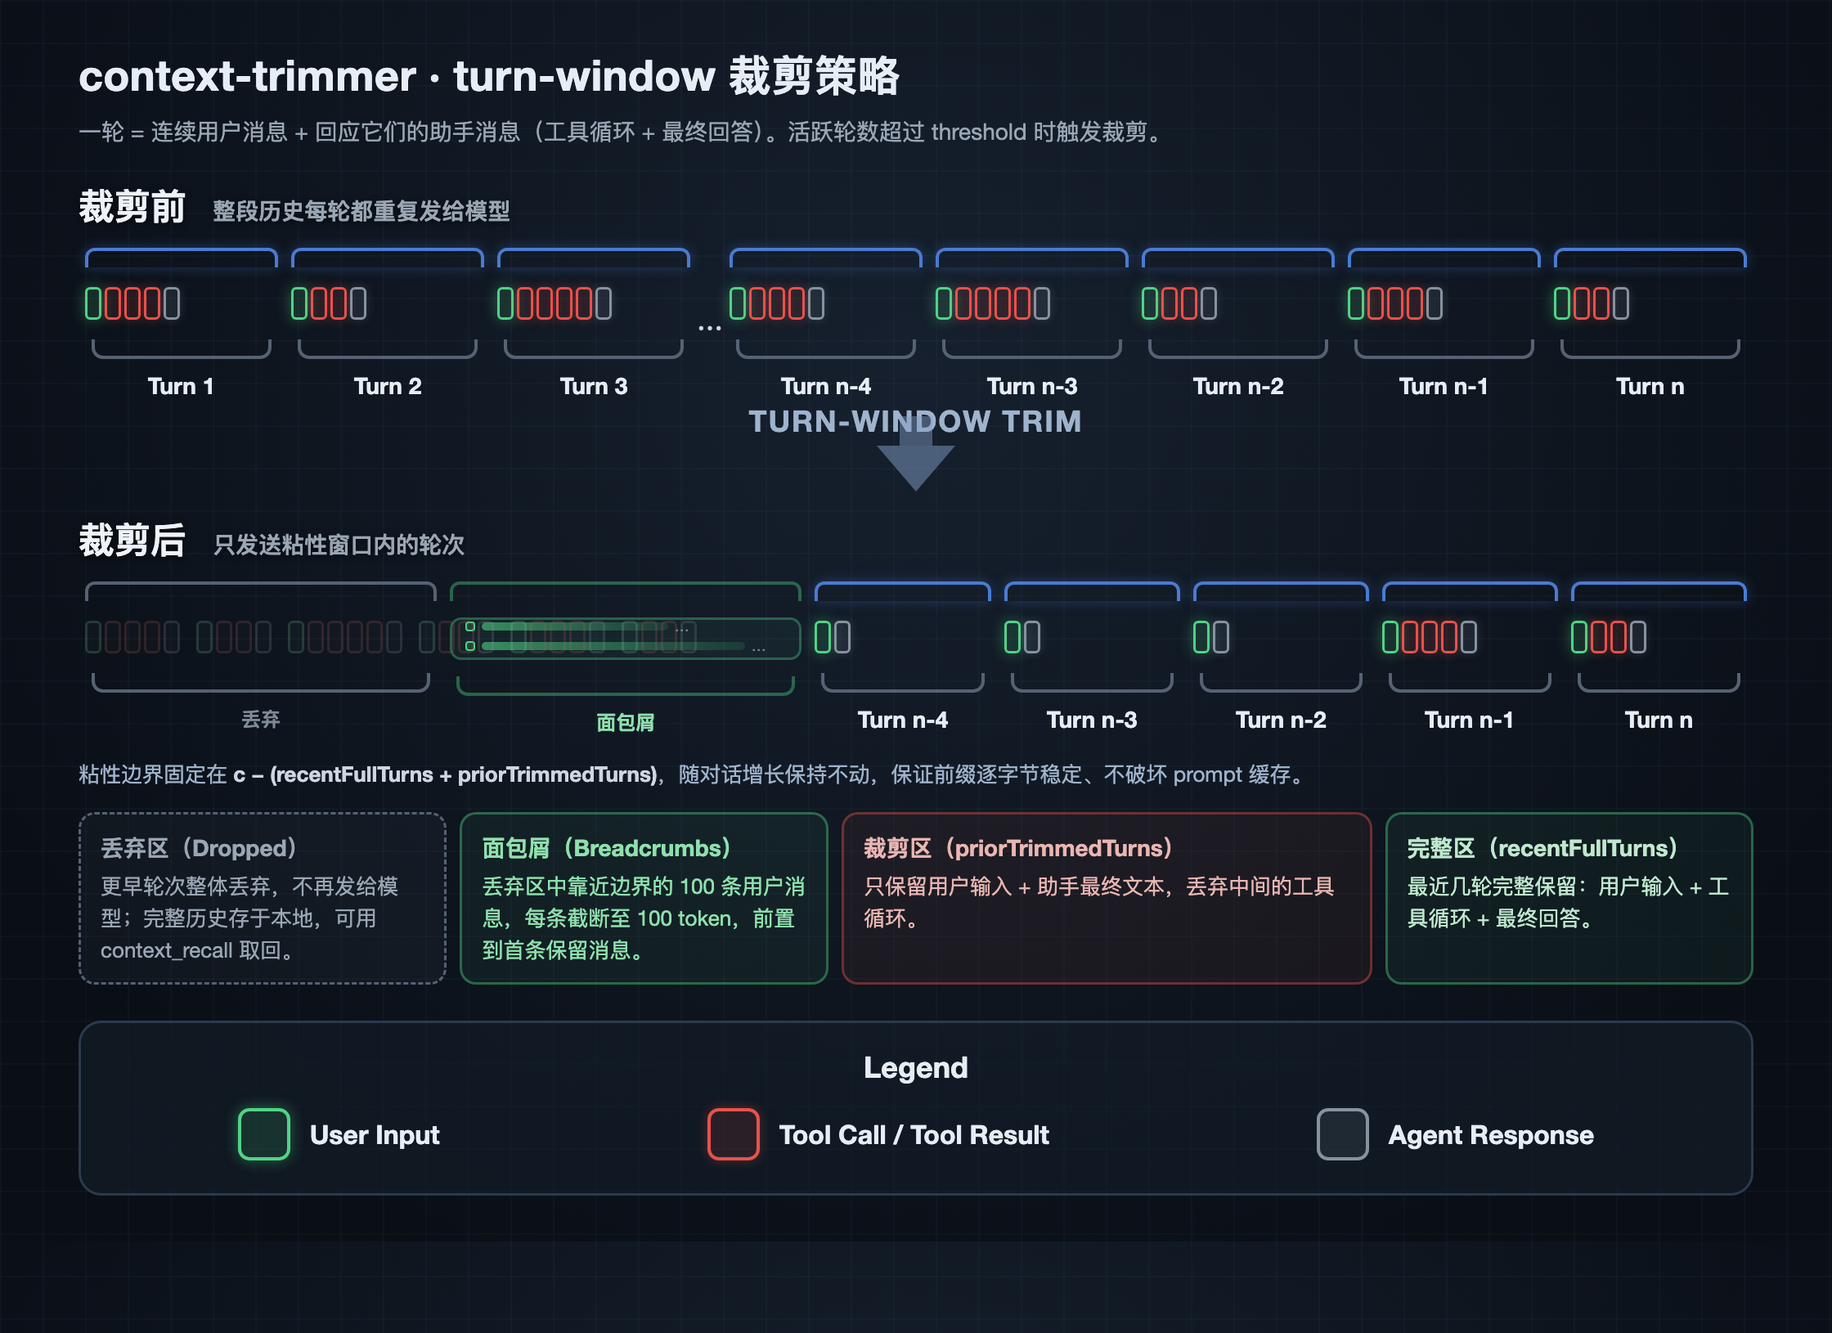
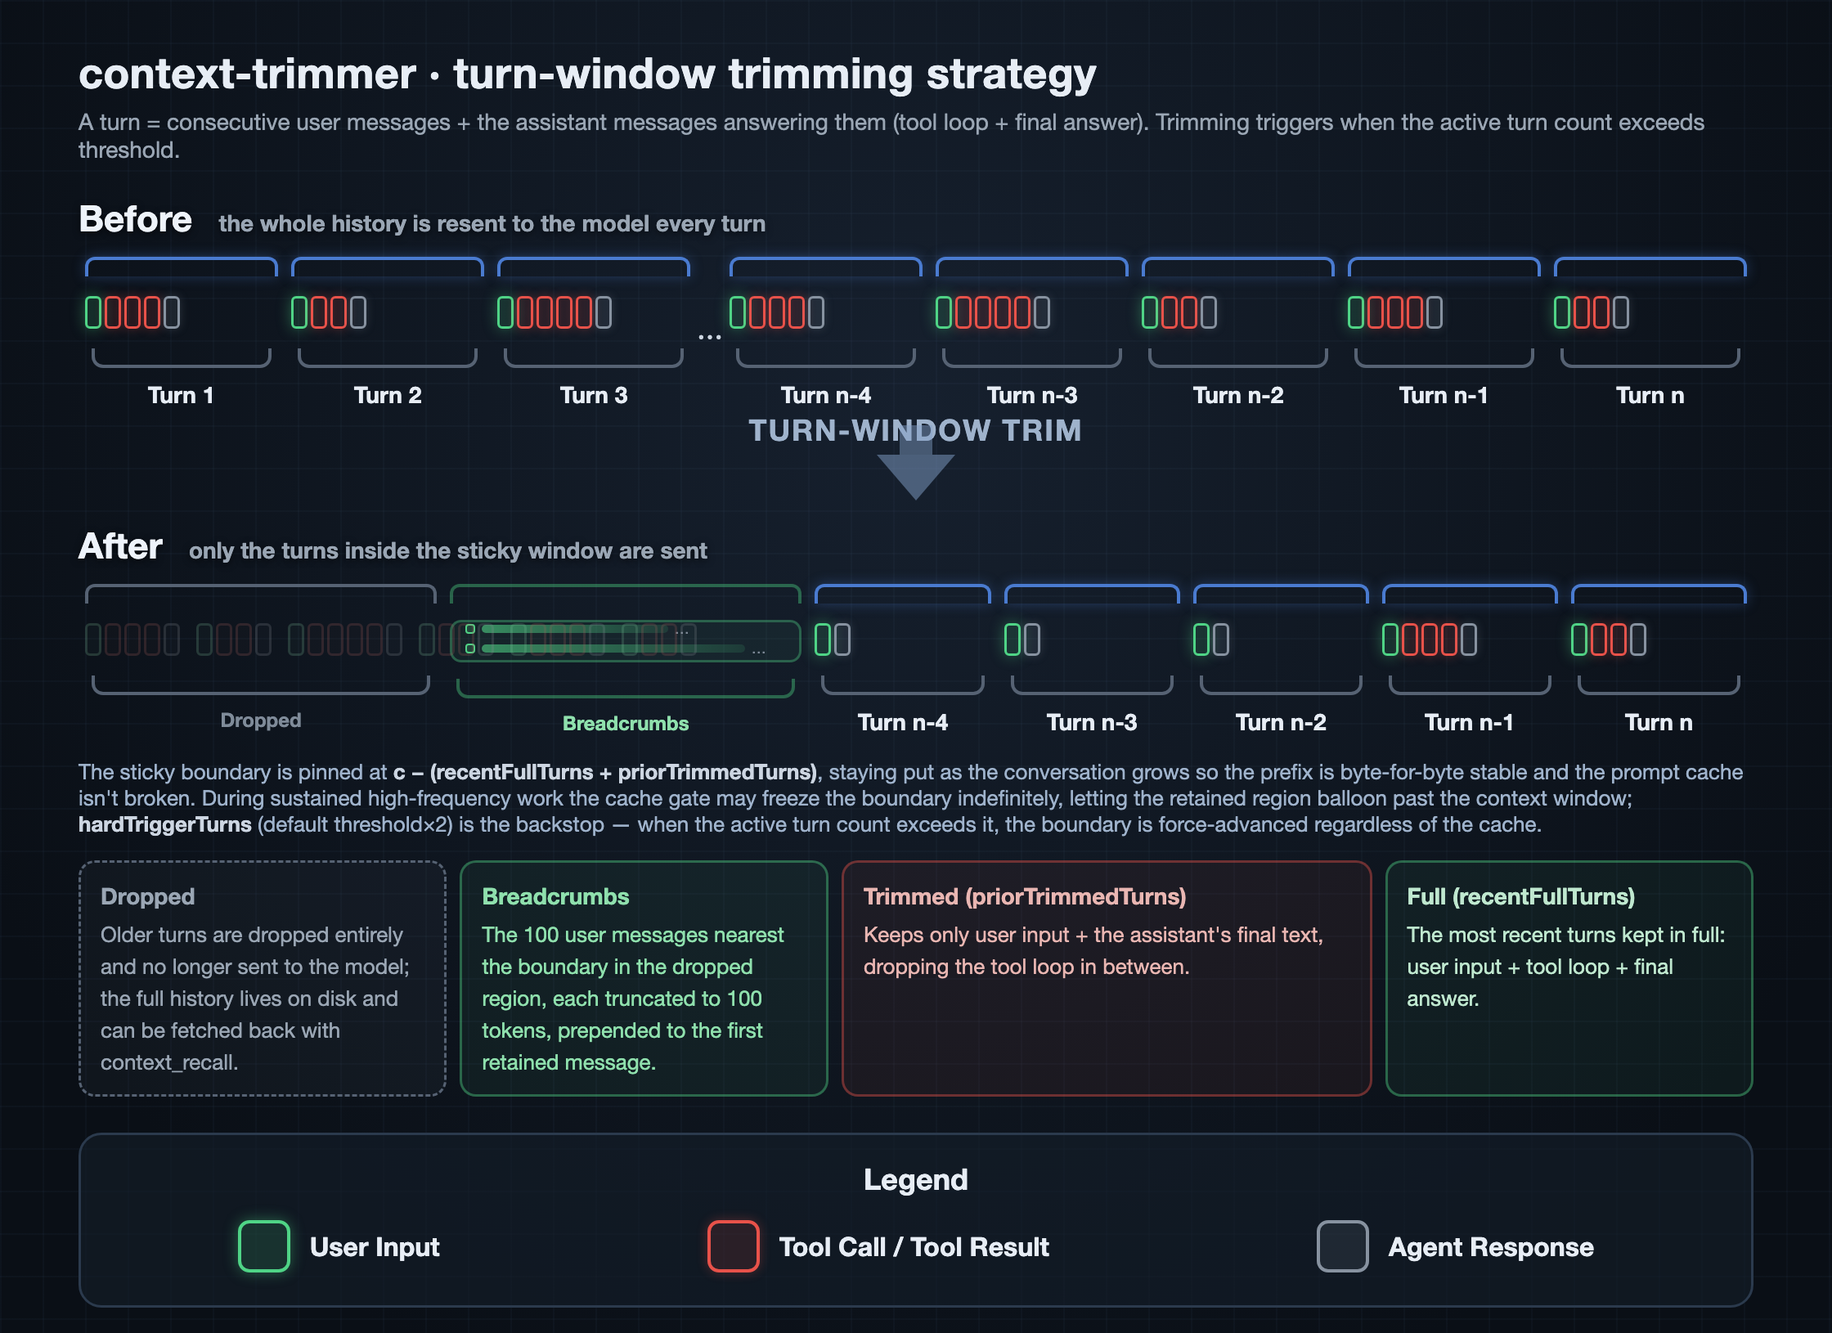
docs: add English diagram as default, rename Chinese to .zh-CN

diff --git a/docs/turn-window.zh-CN.html b/docs/turn-window.zh-CN.html
@@ -1,0 +1,308 @@
+<!DOCTYPE html>
+<html lang="zh">
+<head>
+<meta charset="UTF-8">
+<meta name="viewport" content="width=device-width, initial-scale=1.0">
+<title>context-trimmer · turn-window</title>
+<style>
+  * { box-sizing: border-box; margin: 0; padding: 0; }
+  body {
+    background:
+      linear-gradient(rgba(90,120,160,0.05) 1px, transparent 1px) 0 0 / 100% 26px,
+      linear-gradient(90deg, rgba(90,120,160,0.05) 1px, transparent 1px) 0 0 / 26px 100%,
+      radial-gradient(ellipse at 50% 30%, #16202e, #0a0f16 80%);
+    font-family: -apple-system, "Segoe UI", "Helvetica Neue", Arial, sans-serif;
+    color: #e7edf5;
+    padding: 28px;
+    display: flex;
+    justify-content: center;
+  }
+  .wrap { width: 1024px; max-width: 100%; }
+
+  .heading { margin-bottom: 20px; }
+  .heading h1 { font-size: 26px; font-weight: 800; letter-spacing: .3px; }
+  .heading .sub { font-size: 14px; color: #9aa6b4; margin-top: 6px; }
+
+  .row-title {
+    font-size: 22px;
+    font-weight: 800;
+    margin: 4px 0 10px;
+    color: #eef3fa;
+    text-shadow: 0 1px 4px rgba(0,0,0,.6);
+  }
+  .row-title small { font-weight: 600; font-size: 14px; color: #9aa6b4; margin-left: 10px; }
+
+  .turns { display: flex; align-items: flex-start; gap: 0; }
+  .turn { flex: 1; min-width: 0; display: flex; flex-direction: column; align-items: stretch; padding: 0 4px; }
+  .sep {
+    align-self: flex-start;
+    margin-top: 38px;
+    color: #cdd6e2;
+    font-size: 16px;
+    font-weight: 700;
+  }
+
+  .top-brace {
+    height: 12px;
+    border: 2px solid #4a7bd0;
+    border-bottom: none;
+    border-radius: 6px 6px 0 0;
+    margin-bottom: 10px;
+    box-shadow: 0 0 8px rgba(74,123,208,0.35);
+  }
+
+  .boxes { display: flex; gap: 2px; align-items: center; justify-content: flex-start; min-height: 24px; }
+  .box {
+    width: 10px; height: 20px;
+    border: 1.5px solid;
+    border-radius: 3px;
+    flex-shrink: 0;
+  }
+  .box.green { border-color: #4fd486; background: rgba(79,212,134,0.14); box-shadow: 0 0 9px rgba(79,212,134,0.4); }
+  .box.red   { border-color: #e8524a; background: rgba(232,82,74,0.12); box-shadow: 0 0 7px rgba(232,82,74,0.3); }
+  .box.gray  { border-color: #8792a0; background: rgba(120,132,148,0.15); box-shadow: 0 0 6px rgba(135,146,160,0.25); }
+  .box.ghost { opacity: .28; filter: grayscale(.4); box-shadow: none; }
+
+  .bot-brace {
+    height: 12px;
+    border: 2px solid #566273;
+    border-top: none;
+    border-radius: 0 0 7px 7px;
+    margin: 10px 4px 0;
+  }
+  .turn-label { text-align: center; font-size: 14px; font-weight: 700; color: #e7edf5; margin-top: 8px; }
+
+  .center-arrow { display: flex; flex-direction: column; align-items: center; margin: 2px 0 14px; }
+  .center-arrow .cap { font-size: 18px; font-weight: 800; letter-spacing: 1px; margin-bottom: 4px; color: #9fb3cc; }
+  .big-arrow {
+    width: 0; height: 0;
+    border-left: 24px solid transparent;
+    border-right: 24px solid transparent;
+    border-top: 28px solid rgba(130,160,200,0.5);
+    position: relative;
+  }
+  .big-arrow .stem { position: absolute; width: 20px; height: 18px; left: -10px; top: -46px; background: rgba(130,160,200,0.45); }
+
+  /* region band under a row */
+  .regions { display: flex; margin-top: 14px; gap: 8px; align-items: stretch; }
+  .region { border-radius: 10px; padding: 10px 12px; font-size: 13px; line-height: 1.5; min-width: 0; overflow-wrap: break-word; }
+  .region .rname { font-weight: 800; font-size: 14px; margin-bottom: 3px; }
+  .region.drop { border: 1.5px dashed #566273; background: rgba(86,98,115,0.08); color: #9aa6b4; }
+  .region.bread { border: 1.5px solid rgba(79,212,134,0.4); background: rgba(79,212,134,0.06); color: #8fe0ad; }
+  .region.trim { border: 1.5px solid rgba(232,82,74,0.4); background: rgba(232,82,74,0.06); color: #e9b6b2; }
+  .region.full { border: 1.5px solid rgba(79,212,134,0.4); background: rgba(79,212,134,0.06); color: #bfe8cf; }
+
+  .boundary-note { font-size: 13px; color: #9fb3cc; margin: 14px 0 2px; }
+  .boundary-note b { color: #cdd6e2; }
+
+  /* breadcrumb bars shown in the breadcrumb segment */
+  .crumbs { display: flex; flex-direction: column; gap: 3px; height: 22px; justify-content: center; overflow: hidden; }
+  .crumb { display: flex; align-items: center; gap: 4px; }
+  .crumb .dot {
+    width: 6px; height: 6px; border-radius: 2px; flex-shrink: 0;
+    border: 1px solid #4fd486; background: rgba(79,212,134,0.18);
+  }
+  .crumb .bar {
+    height: 5px; border-radius: 3px;
+    background: linear-gradient(90deg, rgba(79,212,134,0.6), rgba(79,212,134,0.12));
+  }
+  .crumb .cut { font-size: 9px; color: #7f8b99; line-height: 1; }
+
+  /* dropped segment: faint ghosted boxes */
+  .box.ghost { opacity: .22; filter: grayscale(.5); box-shadow: none; }
+  .drop-boxes { gap: 2px; }
+  .drop-gap { width: 6px; flex-shrink: 0; }
+
+  /* breadcrumb segment framing */
+  .turn.crumbseg .crumbs {
+    border: 1.5px solid rgba(79,212,134,0.35);
+    border-radius: 7px;
+    background: rgba(79,212,134,0.06);
+    height: 26px;
+    padding: 0 8px;
+  }
+  .crumb-brace { border-color: rgba(79,212,134,0.4) !important; box-shadow: none !important; }
+  .crumb-label { color: #8fe0ad !important; font-weight: 700 !important; font-size: 12px !important; }
+  .drop-brace { border-color: #566273 !important; box-shadow: none !important; }
+  .drop-label { color: #7f8b99 !important; font-weight: 600 !important; font-size: 12px !important; }
+
+  .legend {
+    margin-top: 22px;
+    border: 1.5px solid #2b3a4d;
+    border-radius: 14px;
+    background: rgba(20,30,42,0.6);
+    padding: 16px 24px 20px;
+  }
+  .legend-title { text-align: center; font-size: 18px; font-weight: 800; margin-bottom: 14px; }
+  .legend-items { display: flex; justify-content: space-around; gap: 20px; }
+  .legend-item { display: flex; align-items: center; gap: 12px; }
+  .legend-box { width: 32px; height: 32px; border: 2px solid; border-radius: 7px; flex-shrink: 0; }
+  .legend-box.green { border-color: #4fd486; background: rgba(79,212,134,0.14); box-shadow: 0 0 9px rgba(79,212,134,0.4); }
+  .legend-box.red   { border-color: #e8524a; background: rgba(232,82,74,0.12); box-shadow: 0 0 7px rgba(232,82,74,0.3); }
+  .legend-box.gray  { border-color: #8792a0; background: rgba(120,132,148,0.15); }
+  .legend-name { font-size: 16px; font-weight: 700; }
+</style>
+</head>
+<body>
+<div class="wrap">
+
+  <div class="heading">
+    <h1>context-trimmer · turn-window 裁剪策略</h1>
+    <div class="sub">一轮 = 连续用户消息 + 回应它们的助手消息（工具循环 + 最终回答）。活跃轮数超过 threshold 时触发裁剪。</div>
+  </div>
+
+  <!-- Before -->
+  <div class="section">
+    <div class="row-title">裁剪前 <small>整段历史每轮都重复发给模型</small></div>
+    <div class="turns" id="before"></div>
+  </div>
+
+  <div class="center-arrow">
+    <div class="cap">TURN-WINDOW TRIM</div>
+    <div class="big-arrow"><div class="stem"></div></div>
+  </div>
+
+  <!-- After -->
+  <div class="section">
+    <div class="row-title">裁剪后 <small>只发送粘性窗口内的轮次</small></div>
+    <div class="turns" id="after"></div>
+    <div class="boundary-note">粘性边界固定在 <b>c − (recentFullTurns + priorTrimmedTurns)</b>，随对话增长保持不动，保证前缀逐字节稳定、不破坏 prompt 缓存。持续高频工作时，缓存门控可能把边界无限期冻结导致保留区膨胀溢出上下文窗口；<b>hardTriggerTurns</b>（默认 threshold×2）作为兜底，活跃轮数超过它时无视缓存强制前移边界。</div>
+    <div class="regions">
+      <div class="region drop" style="flex:2">
+        <div class="rname">丢弃区（Dropped）</div>
+        更早轮次整体丢弃，不再发给模型；完整历史存于本地，可用 context_recall 取回。
+      </div>
+      <div class="region bread" style="flex:2">
+        <div class="rname">面包屑（Breadcrumbs）</div>
+        丢弃区中靠近边界的 100 条用户消息，每条截断至 100 token，前置到首条保留消息。
+      </div>
+      <div class="region trim" style="flex:3">
+        <div class="rname">裁剪区（priorTrimmedTurns）</div>
+        只保留用户输入 + 助手最终文本，丢弃中间的工具循环。
+      </div>
+      <div class="region full" style="flex:2">
+        <div class="rname">完整区（recentFullTurns）</div>
+        最近几轮完整保留：用户输入 + 工具循环 + 最终回答。
+      </div>
+    </div>
+  </div>
+
+  <div class="legend">
+    <div class="legend-title">Legend</div>
+    <div class="legend-items">
+      <div class="legend-item"><div class="legend-box green"></div><div class="legend-name">User Input</div></div>
+      <div class="legend-item"><div class="legend-box red"></div><div class="legend-name">Tool Call / Tool Result</div></div>
+      <div class="legend-item"><div class="legend-box gray"></div><div class="legend-name">Agent Response</div></div>
+    </div>
+  </div>
+
+</div>
+
+<script>
+  function box(type, ghost) {
+    const b = document.createElement('div');
+    b.className = 'box ' + type + (ghost ? ' ghost' : '');
+    return b;
+  }
+  // kind: 'full' = green + reds + gray; 'trim' = green + gray; 'drop' = all ghost
+  function makeBoxes(reds, kind) {
+    const wrap = document.createElement('div');
+    wrap.className = 'boxes';
+    const ghost = kind === 'drop';
+    wrap.appendChild(box('green', ghost));
+    if (kind !== 'trim') {
+      for (let i = 0; i < reds; i++) wrap.appendChild(box('red', ghost));
+    }
+    wrap.appendChild(box('gray', ghost));
+    return wrap;
+  }
+  function turn(reds, kind, label) {
+    const t = document.createElement('div');
+    t.className = 'turn';
+    const top = document.createElement('div'); top.className = 'top-brace'; t.appendChild(top);
+    t.appendChild(makeBoxes(reds, kind));
+    const bb = document.createElement('div'); bb.className = 'bot-brace'; t.appendChild(bb);
+    const lb = document.createElement('div'); lb.className = 'turn-label'; lb.textContent = label; t.appendChild(lb);
+    return t;
+  }
+  // Dropped segment: several ghosted turns (faint), shown collapsed.
+  function dropSeg(flexGrow, label) {
+    const t = document.createElement('div');
+    t.className = 'turn';
+    t.style.flex = flexGrow;
+    const top = document.createElement('div'); top.className = 'top-brace drop-brace'; t.appendChild(top);
+    const wrap = document.createElement('div'); wrap.className = 'boxes drop-boxes';
+    const turnsSpec = [3, 2, 4, 2, 3, 2];
+    turnsSpec.forEach((reds, ti) => {
+      if (ti > 0) { const g = document.createElement('div'); g.className = 'drop-gap'; wrap.appendChild(g); }
+      wrap.appendChild(box('green', true));
+      for (let i = 0; i < reds; i++) wrap.appendChild(box('red', true));
+      wrap.appendChild(box('gray', true));
+    });
+    t.appendChild(wrap);
+    const bb = document.createElement('div'); bb.className = 'bot-brace drop-brace'; t.appendChild(bb);
+    const lb = document.createElement('div'); lb.className = 'turn-label drop-label'; lb.textContent = label; t.appendChild(lb);
+    return t;
+  }
+  // Breadcrumb segment: retained user messages, each truncated.
+  function crumbSeg(flexGrow, rows, label) {
+    const t = document.createElement('div');
+    t.className = 'turn crumbseg';
+    t.style.flex = flexGrow;
+    const top = document.createElement('div'); top.className = 'top-brace crumb-brace'; t.appendChild(top);
+    const wrap = document.createElement('div'); wrap.className = 'crumbs';
+    const widths = [100, 58, 82, 45];
+    for (let i = 0; i < rows; i++) {
+      const w = widths[i % widths.length];
+      const row = document.createElement('div'); row.className = 'crumb';
+      const dot = document.createElement('div'); dot.className = 'dot';
+      const bar = document.createElement('div'); bar.className = 'bar'; bar.style.width = w + '%';
+      row.appendChild(dot); row.appendChild(bar);
+      if (w < 100) { const c = document.createElement('span'); c.className = 'cut'; c.textContent = '…'; row.appendChild(c); }
+      wrap.appendChild(row);
+    }
+    t.appendChild(wrap);
+    const bb = document.createElement('div'); bb.className = 'bot-brace crumb-brace'; t.appendChild(bb);
+    const lb = document.createElement('div'); lb.className = 'turn-label crumb-label'; lb.textContent = label; t.appendChild(lb);
+    return t;
+  }
+  function sep(txt) {
+    const a = document.createElement('div'); a.className = 'sep'; a.textContent = txt; return a;
+  }
+  function fill(id, items) {
+    const root = document.getElementById(id);
+    items.forEach((it) => {
+      if (it.sep) root.appendChild(sep(it.sep));
+      else if (it.drop) root.appendChild(dropSeg(it.flex, it.label));
+      else if (it.crumb) root.appendChild(crumbSeg(it.flex, it.rows, it.label));
+      else root.appendChild(turn(it.reds, it.kind, it.label));
+    });
+  }
+
+  // Before: all turns full
+  fill('before', [
+    { reds: 3, kind: 'full', label: 'Turn 1' },
+    { reds: 2, kind: 'full', label: 'Turn 2' },
+    { reds: 4, kind: 'full', label: 'Turn 3' },
+    { sep: '\u22EF' },
+    { reds: 3, kind: 'full', label: 'Turn n-4' },
+    { reds: 4, kind: 'full', label: 'Turn n-3' },
+    { reds: 2, kind: 'full', label: 'Turn n-2' },
+    { reds: 3, kind: 'full', label: 'Turn n-1' },
+    { reds: 2, kind: 'full', label: 'Turn n' },
+  ]);
+
+  // After: dropped segment + breadcrumb segment, then trimmed, then full
+  fill('after', [
+    { drop: true, flex: '2', label: '丢弃' },
+    { crumb: true, flex: '2', rows: 4, label: '面包屑' },
+    { reds: 3, kind: 'trim', label: 'Turn n-4' },
+    { reds: 4, kind: 'trim', label: 'Turn n-3' },
+    { reds: 2, kind: 'trim', label: 'Turn n-2' },
+    { reds: 3, kind: 'full', label: 'Turn n-1' },
+    { reds: 2, kind: 'full', label: 'Turn n' },
+  ]);
+
+</script>
+</body>
+</html>

diff --git a/docs/turn-window.html b/docs/turn-window.html
@@ -1,5 +1,5 @@
 <!DOCTYPE html>
-<html lang="zh">
+<html lang="en">
 <head>
 <meta charset="UTF-8">
 <meta name="viewport" content="width=device-width, initial-scale=1.0">
@@ -147,13 +147,13 @@
 <div class="wrap">
 
   <div class="heading">
-    <h1>context-trimmer · turn-window 裁剪策略</h1>
-    <div class="sub">一轮 = 连续用户消息 + 回应它们的助手消息（工具循环 + 最终回答）。活跃轮数超过 threshold 时触发裁剪。</div>
+    <h1>context-trimmer · turn-window trimming strategy</h1>
+    <div class="sub">A turn = consecutive user messages + the assistant messages answering them (tool loop + final answer). Trimming triggers when the active turn count exceeds threshold.</div>
   </div>
 
   <!-- Before -->
   <div class="section">
-    <div class="row-title">裁剪前 <small>整段历史每轮都重复发给模型</small></div>
+    <div class="row-title">Before <small>the whole history is resent to the model every turn</small></div>
     <div class="turns" id="before"></div>
   </div>
 
@@ -164,25 +164,25 @@
 
   <!-- After -->
   <div class="section">
-    <div class="row-title">裁剪后 <small>只发送粘性窗口内的轮次</small></div>
+    <div class="row-title">After <small>only the turns inside the sticky window are sent</small></div>
     <div class="turns" id="after"></div>
-    <div class="boundary-note">粘性边界固定在 <b>c − (recentFullTurns + priorTrimmedTurns)</b>，随对话增长保持不动，保证前缀逐字节稳定、不破坏 prompt 缓存。持续高频工作时，缓存门控可能把边界无限期冻结导致保留区膨胀溢出上下文窗口；<b>hardTriggerTurns</b>（默认 threshold×2）作为兜底，活跃轮数超过它时无视缓存强制前移边界。</div>
+    <div class="boundary-note">The sticky boundary is pinned at <b>c − (recentFullTurns + priorTrimmedTurns)</b>, staying put as the conversation grows so the prefix is byte-for-byte stable and the prompt cache isn't broken. During sustained high-frequency work the cache gate may freeze the boundary indefinitely, letting the retained region balloon past the context window; <b>hardTriggerTurns</b> (default threshold×2) is the backstop — when the active turn count exceeds it, the boundary is force-advanced regardless of the cache.</div>
     <div class="regions">
       <div class="region drop" style="flex:2">
-        <div class="rname">丢弃区（Dropped）</div>
-        更早轮次整体丢弃，不再发给模型；完整历史存于本地，可用 context_recall 取回。
+        <div class="rname">Dropped</div>
+        Older turns are dropped entirely and no longer sent to the model; the full history lives on disk and can be fetched back with context_recall.
       </div>
       <div class="region bread" style="flex:2">
-        <div class="rname">面包屑（Breadcrumbs）</div>
-        丢弃区中靠近边界的 100 条用户消息，每条截断至 100 token，前置到首条保留消息。
+        <div class="rname">Breadcrumbs</div>
+        The 100 user messages nearest the boundary in the dropped region, each truncated to 100 tokens, prepended to the first retained message.
       </div>
       <div class="region trim" style="flex:3">
-        <div class="rname">裁剪区（priorTrimmedTurns）</div>
-        只保留用户输入 + 助手最终文本，丢弃中间的工具循环。
+        <div class="rname">Trimmed (priorTrimmedTurns)</div>
+        Keeps only user input + the assistant's final text, dropping the tool loop in between.
       </div>
       <div class="region full" style="flex:2">
-        <div class="rname">完整区（recentFullTurns）</div>
-        最近几轮完整保留：用户输入 + 工具循环 + 最终回答。
+        <div class="rname">Full (recentFullTurns)</div>
+        The most recent turns kept in full: user input + tool loop + final answer.
       </div>
     </div>
   </div>
@@ -294,8 +294,8 @@
 
   // After: dropped segment + breadcrumb segment, then trimmed, then full
   fill('after', [
-    { drop: true, flex: '2', label: '丢弃' },
-    { crumb: true, flex: '2', rows: 4, label: '面包屑' },
+    { drop: true, flex: '2', label: 'Dropped' },
+    { crumb: true, flex: '2', rows: 4, label: 'Breadcrumbs' },
     { reds: 3, kind: 'trim', label: 'Turn n-4' },
     { reds: 4, kind: 'trim', label: 'Turn n-3' },
     { reds: 2, kind: 'trim', label: 'Turn n-2' },

diff --git a/README.zh-CN.md b/README.zh-CN.md
@@ -70,7 +70,7 @@ context-trimmer 走另一条路——**纯消息重写**，发出前就地裁掉
 
 ## 工作原理
 
-![turn-window 裁剪策略示意图](docs/assets/turn-window.png)
+![turn-window 裁剪策略示意图](docs/assets/turn-window.zh-CN.png)
 
 插件挂载 `experimental.chat.messages.transform` 钩子（重写待发送消息的时机），
 应用一个可插拔的**策略（strategy）**。内置且默认的唯一策略是 `turn-window`：
